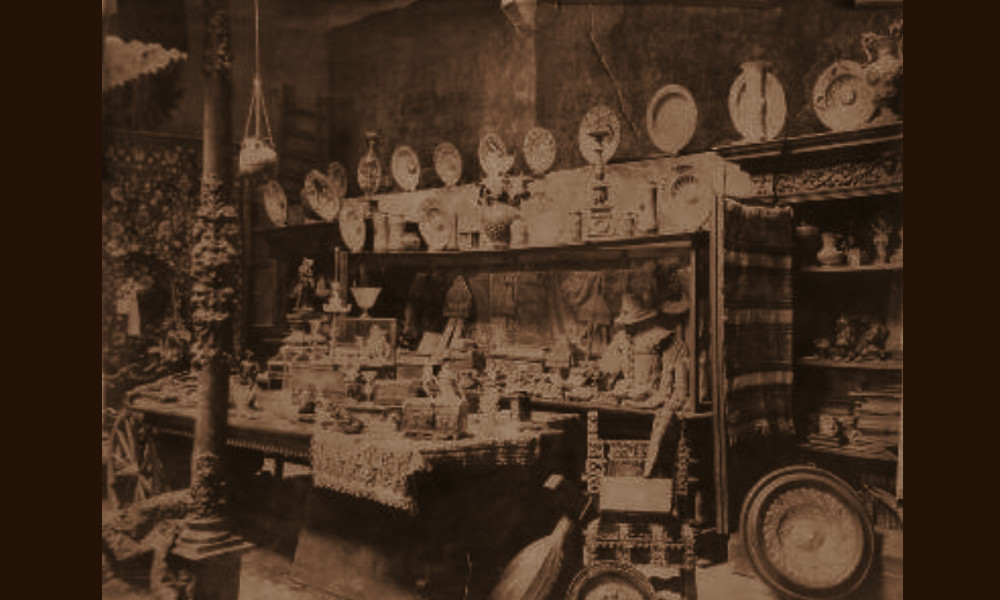
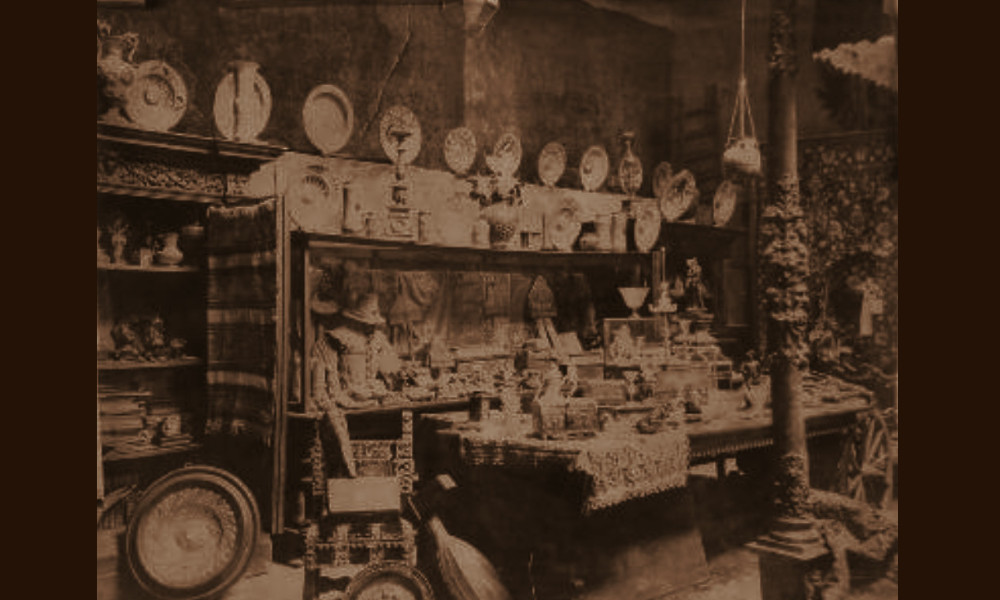
simonetti: didascalia, evento, immagine ribaltata e albero genealogico

diff --git a/html/eventi.html b/html/eventi.html
@@ -331,7 +331,7 @@
                 <!-- Card 17 -->
                 <div class="carousel-card category-1" data-id="event17">
                     <div class="card-title">1932<br>Vendita Collezione Simonetti</div>
-                    <div class="card-content">Vendita dell'intera collezione di <a href="../html/dettagli/dettaglio_SI.html" target="_blank">Attilio Simonetti</a>, organizzata dagli eredi presso la casa d'aste Guido Tavazzi, con catalogo curato da Ludwig Pollak.</div>
+                    <div class="card-content">Vendita della collezione di <a href="../html/dettagli/dettaglio_SI.html" target="_blank">Attilio Simonetti</a>, organizzata dagli eredi presso la casa d'aste Guido Tavazzi, con catalogo curato da Ludwig Pollak.</div>
                 </div>
 
                 <!-- Card 18 -->
